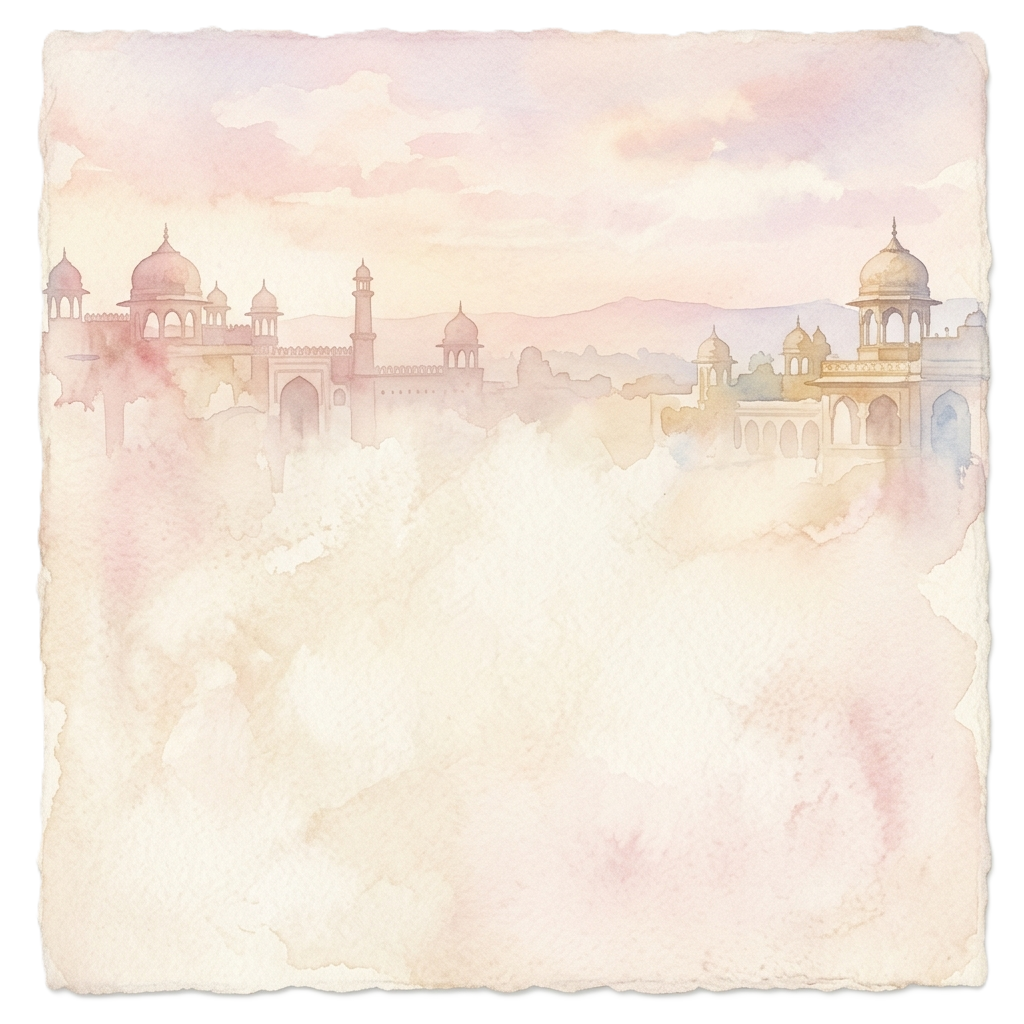
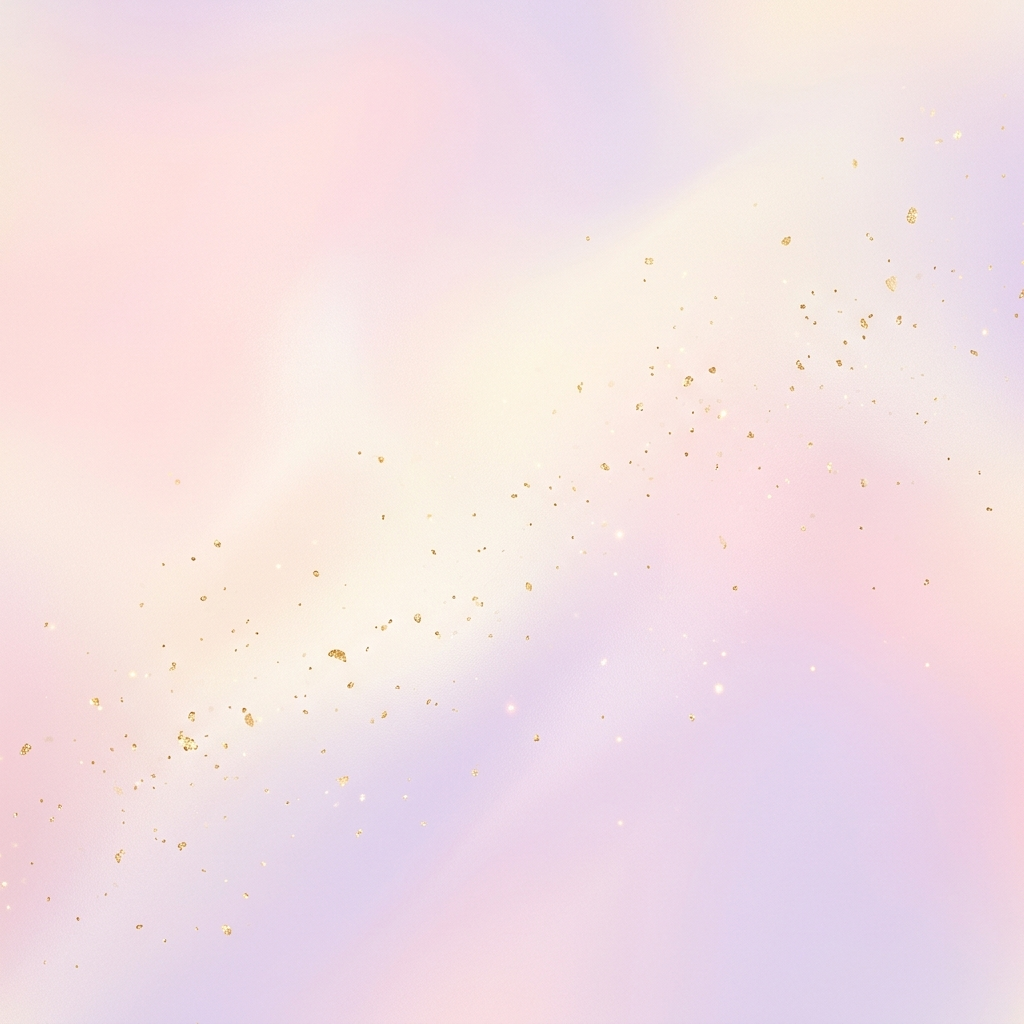
hero section ui changed completely

diff --git a/src/components/HeroInvite.jsx b/src/components/HeroInvite.jsx
@@ -65,11 +65,11 @@ const DamaskPattern = () => (
         <path d="M 125 155 C 130 145, 142 148, 142 148 C 142 148, 140 158, 125 155 Z" fill="rgba(195,160,80,0.2)" stroke="rgba(180,145,65,0.35)" strokeWidth="0.5" />
       </pattern>
 
-      {/* Soft Light Pink, Cream, and Light Purple gradient base */}
+      {/* Rich Premium Champagne-Cream gradient base */}
       <linearGradient id="flapGradient" x1="0%" y1="0%" x2="100%" y2="100%">
-        <stop offset="0%" stopColor="#ffeef2" />
-        <stop offset="50%" stopColor="#fffdf6" />
-        <stop offset="100%" stopColor="#f4e8ff" />
+        <stop offset="0%" stopColor="#fdfaf2" />
+        <stop offset="50%" stopColor="#f5ebd5" />
+        <stop offset="100%" stopColor="#eadecc" />
       </linearGradient>
 
       {/* Subtle radial highlight in center */}
@@ -130,99 +130,45 @@ const HeroInvite = ({ onOpen }) => {
 
   return (
     <>
-      {/* Inside Invitation Content â€” unchanged */}
-      <section className="relative h-[100svh] flex flex-col items-center justify-between text-center overflow-hidden bg-[#faf6f0]">
+      {/* Inside Invitation Content */}
+      <section className="relative h-[100svh] flex flex-col items-center justify-between text-center overflow-hidden bg-[#fffdf9]">
         
-        {/* Layer 1: Base Background */}
+        {/* Layer 1: Palace Backdrop Background */}
         <motion.img
-          initial={{ opacity: 0, scale: 1.05 }}
-          whileInView={isOpen ? { opacity: 1, scale: 1 } : { opacity: 0, scale: 1.05 }}
-          viewport={{ once: false, amount: 0.15 }}
-          transition={{ duration: 1.8, ease: "easeOut" }}
-          src="/base_background.png"
-          alt="Base Background"
+          initial={{ opacity: 0, scale: 1.03 }}
+          whileInView={isOpen ? { opacity: 1, scale: 1 } : { opacity: 0, scale: 1.03 }}
+          viewport={{ once: false, amount: 0.1 }}
+          transition={{ duration: 3.0, delay: 0.1, ease: "easeOut" }}
+          src="/wedding-palace-background.png"
+          alt="Palace Background"
           className="absolute inset-0 w-full h-full object-cover z-0 select-none pointer-events-none"
         />
 
-        {/* Layer 2: Top Floral Frame */}
+        {/* Layer 2: Floral Decoration Overlay */}
         <motion.img
-          initial={{ opacity: 0, y: -60 }}
-          whileInView={isOpen ? { opacity: 1, y: 0 } : { opacity: 0, y: -60 }}
-          viewport={{ once: false, amount: 0.15 }}
-          transition={{ duration: 1.4, delay: 0.2, ease: "easeOut" }}
-          src="/floral_frame.png"
-          alt="Floral Frame"
-          className="absolute -top-[2%] -left-[1%] w-[102%] h-[27vh] sm:h-[30vh] md:h-[34vh] lg:h-auto object-cover object-top z-10 pointer-events-none mix-blend-multiply select-none"
+          initial={{ opacity: 0, scale: 1.02 }}
+          whileInView={isOpen ? { opacity: 0.95, scale: 1 } : { opacity: 0, scale: 1.02 }}
+          viewport={{ once: false, amount: 0.1 }}
+          transition={{ duration: 2.6, delay: 1.0, ease: "easeOut" }}
+          src="/wedding-floral-decor.png"
+          alt="Floral Decoration"
+          className="absolute inset-0 w-full h-full object-cover z-10 pointer-events-none mix-blend-multiply select-none"
         />
 
-        {/* Layer 3: Peacocks & Architecture - Flanked Left & Right */}
+        {/* Layer 3: Couple Standing Overlay */}
         <motion.img
-          initial={{ opacity: 0, x: -50, y: 20, scale: 0.95 }}
-          whileInView={isOpen ? { opacity: 1, x: 0, y: 0, scale: 1 } : { opacity: 0, x: -50, y: 20, scale: 0.95 }}
-          viewport={{ once: false, amount: 0.15 }}
-          transition={{ duration: 1.6, delay: 0.4, ease: "easeOut" }}
-          src="/peacock_side.png"
-          alt="Left Peacock"
-          className="absolute bottom-0 left-[-10%] sm:left-[-8%] md:left-[-5%] lg:left-[-3%] w-[50%] sm:w-[45%] md:w-[40%] lg:w-[35%] h-[40vh] sm:h-[45vh] md:h-[55vh] lg:h-[65vh] object-contain object-bottom z-20 pointer-events-none mix-blend-multiply select-none scale-x-[-1]"
-        />
-
-        <motion.img
-          initial={{ opacity: 0, x: 50, y: 20, scale: 0.95 }}
-          whileInView={isOpen ? { opacity: 1, x: 0, y: 0, scale: 1 } : { opacity: 0, x: 50, y: 20, scale: 0.95 }}
-          viewport={{ once: false, amount: 0.15 }}
-          transition={{ duration: 1.6, delay: 0.4, ease: "easeOut" }}
-          src="/peacock_side.png"
-          alt="Right Peacock"
-          className="absolute bottom-0 right-[-10%] sm:right-[-8%] md:right-[-5%] lg:right-[-3%] w-[50%] sm:w-[45%] md:w-[40%] lg:w-[35%] h-[40vh] sm:h-[45vh] md:h-[55vh] lg:h-[65vh] object-contain object-bottom z-20 pointer-events-none mix-blend-multiply select-none"
-        />
-
-        {/* Layer 4: The Couple */}
-        <motion.img
-          initial={{ opacity: 0, y: 60, scale: 0.92 }}
-          whileInView={isOpen ? { opacity: 1, y: 0, scale: 1 } : { opacity: 0, y: 60, scale: 0.92 }}
-          viewport={{ once: false, amount: 0.15 }}
-          transition={{ duration: 1.8, delay: 0.7, ease: [0.16, 1, 0.3, 1] }}
-          src="/wedding_couple.png"
+          initial={{ opacity: 0, y: 40 }}
+          whileInView={isOpen ? { opacity: 0.95, y: 0 } : { opacity: 0, y: 40 }}
+          viewport={{ once: false, amount: 0.1 }}
+          transition={{ duration: 2.6, delay: 3.0, ease: "easeOut" }}
+          src="/wedding-couple-render.png"
           alt="Wedding Couple"
-          className="absolute bottom-0 left-1/2 -translate-x-1/2 w-auto h-[42vh] sm:h-[46vh] md:h-[52vh] lg:h-[58vh] object-contain object-bottom z-30 pointer-events-auto mix-blend-multiply select-none"
+          className="absolute bottom-[-5px] right-[-4vw] sm:right-[-2vw] w-auto h-[35vh] sm:h-[41vh] md:h-[47vh] lg:h-[53vh] object-contain object-bottom z-30 pointer-events-none mix-blend-multiply select-none"
         />
 
-        {/* Cinematic Atmospheric Layers */}
-        <div className="absolute inset-0 z-0 pointer-events-none">
-          {/* Floating Soft Orbs */}
-          {[...Array(6)].map((_, i) => (
-            <motion.div
-              key={i}
-              initial={{ 
-                x: Math.random() * 100 + '%', 
-                y: Math.random() * 40 + '%',
-                opacity: 0
-              }}
-              animate={isOpen ? { 
-                y: ['10%', '50%', '10%'],
-                opacity: [0.1, 0.3, 0.1]
-              } : {}}
-              transition={{ 
-                duration: 10 + Math.random() * 10, 
-                repeat: Infinity, 
-                ease: "easeInOut" 
-              }}
-              className="absolute w-32 h-32 md:w-48 md:h-48 rounded-full bg-[#fff4cc] blur-[60px]"
-            />
-          ))}
-
-          {/* Silk Texture Layer */}
-          <div className="absolute inset-0 opacity-[0.03]" 
-               style={{ 
-                 backgroundImage: 'url("https://www.transparenttextures.com/patterns/silk.png")',
-                 backgroundRepeat: 'repeat'
-               }} 
-          />
-        </div>
-
-        {/* Romantic Flower Rain */}
-        <div className="absolute inset-0 z-5 pointer-events-none overflow-hidden">
-          {isOpen && [...Array(16)].map((_, i) => (
+        {/* Flower Dropping Effect — Above background and flowers (z-20) */}
+        <div className="absolute inset-0 z-20 pointer-events-none overflow-hidden">
+          {isOpen && [...Array(22)].map((_, i) => (
             <motion.div
               key={i}
               initial={{ 
@@ -230,27 +176,27 @@ const HeroInvite = ({ onOpen }) => {
                 left: `${Math.random() * 100}%`,
                 opacity: 0,
                 rotate: Math.random() * 360,
-                scale: Math.random() * 0.4 + 0.6
+                scale: Math.random() * 0.4 + 0.5
               }}
               animate={{ 
                 top: '100vh',
-                left: `${(Math.random() * 30 - 15) + (i * 6)}%`,
+                left: `${(Math.random() * 30 - 15) + (i * 4.5)}%`,
                 opacity: [0, 1, 1, 0],
                 rotate: 720,
               }}
               transition={{ 
-                duration: 8 + Math.random() * 12,
+                duration: 7 + Math.random() * 10,
                 repeat: Infinity,
-                delay: i * 1.5,
+                delay: i * 0.8,
                 ease: "linear"
               }}
               className="absolute"
             >
-              <svg width="24" height="24" viewBox="0 0 24 24" fill="none" className="drop-shadow-[0_2px_2px_rgba(0,0,0,0.1)]">
+              <svg width="24" height="24" viewBox="0 0 24 24" fill="none" className="drop-shadow-[0_2px_4px_rgba(0,0,0,0.06)]">
                 <path 
                   d="M12 2C12 2 18 4 20 10C22 16 18 22 12 22C6 22 2 16 4 10C6 4 12 2 12 2Z" 
-                  fill={i % 2 === 0 ? "#ff99aa" : "#ffb6c1"} 
-                  className="opacity-90"
+                  fill={i % 2 === 0 ? "#ffd9e2" : "#f1e3ff"} 
+                  className="opacity-80"
                 />
                 <path 
                   d="M12 2C13 5 16 8 18 10" 
@@ -262,14 +208,13 @@ const HeroInvite = ({ onOpen }) => {
             </motion.div>
           ))}
         </div>
-
-        {/* Content Container (Typography & Names) */}
-        <div className="absolute top-[18vh] sm:top-[20vh] md:top-[22vh] lg:top-[25vh] left-0 w-full z-40 flex flex-col items-center justify-start pointer-events-none">
+        {/* Content Container (Typography & Names) — Centered vertically and horizontally in the middle of the backdrop */}
+        <div className="absolute inset-0 z-40 flex flex-col items-center justify-center pointer-events-none">
           <motion.div
             initial={{ opacity: 0, y: 15, scale: 0.95 }}
             whileInView={isOpen ? { opacity: 1, y: 0, scale: 1 } : { opacity: 0, y: 15, scale: 0.95 }}
             viewport={{ once: false, amount: 0.15 }}
-            transition={{ delay: 0.9, duration: 1.5, ease: "easeOut" }}
+            transition={{ delay: 2.0, duration: 2.4, ease: "easeOut" }}
             className="flex flex-col items-center pointer-events-auto"
           >
             <h2 className="flex flex-col items-center justify-center mb-2 md:mb-5">
@@ -334,7 +279,7 @@ const HeroInvite = ({ onOpen }) => {
                 animate={flapOpen ? { y: '100%', opacity: 0 } : { y: 0, opacity: 1 }}
                 transition={{ duration: 1.8, ease: [0.4, 0, 0.2, 1], delay: 0.3 }}
                 className="absolute inset-0 z-10"
-                style={{ background: 'linear-gradient(to bottom, #ffeef2, #fffdf6, #f4e8ff)' }}
+                style={{ background: 'linear-gradient(to bottom, #fffefb, #fdfaf2, #faf6ec)' }}
               >
                 {/* Paper texture overlay */}
                 <div className="absolute inset-0 paper-texture" />
@@ -350,10 +295,10 @@ const HeroInvite = ({ onOpen }) => {
                     alt="Proposal Scene"
                     className="w-full h-full object-cover select-none"
                     style={{
-                      opacity: 0.36,
-                      filter: 'sepia(0.15) saturate(0.95) contrast(0.95)',
-                      maskImage: 'linear-gradient(to bottom, transparent 0%, rgba(0,0,0,0.55) 15%, rgba(0,0,0,0.85) 75%, transparent 100%)',
-                      WebkitMaskImage: 'linear-gradient(to bottom, transparent 0%, rgba(0,0,0,0.55) 15%, rgba(0,0,0,0.85) 75%, transparent 100%)',
+                      opacity: 0.46,
+                      filter: 'sepia(0.12) saturate(1.0) contrast(0.98)',
+                      maskImage: 'linear-gradient(to bottom, transparent 0%, rgba(0,0,0,0.65) 15%, rgba(0,0,0,0.92) 75%, transparent 100%)',
+                      WebkitMaskImage: 'linear-gradient(to bottom, transparent 0%, rgba(0,0,0,0.65) 15%, rgba(0,0,0,0.92) 75%, transparent 100%)',
                     }}
                   />
                 </div>
